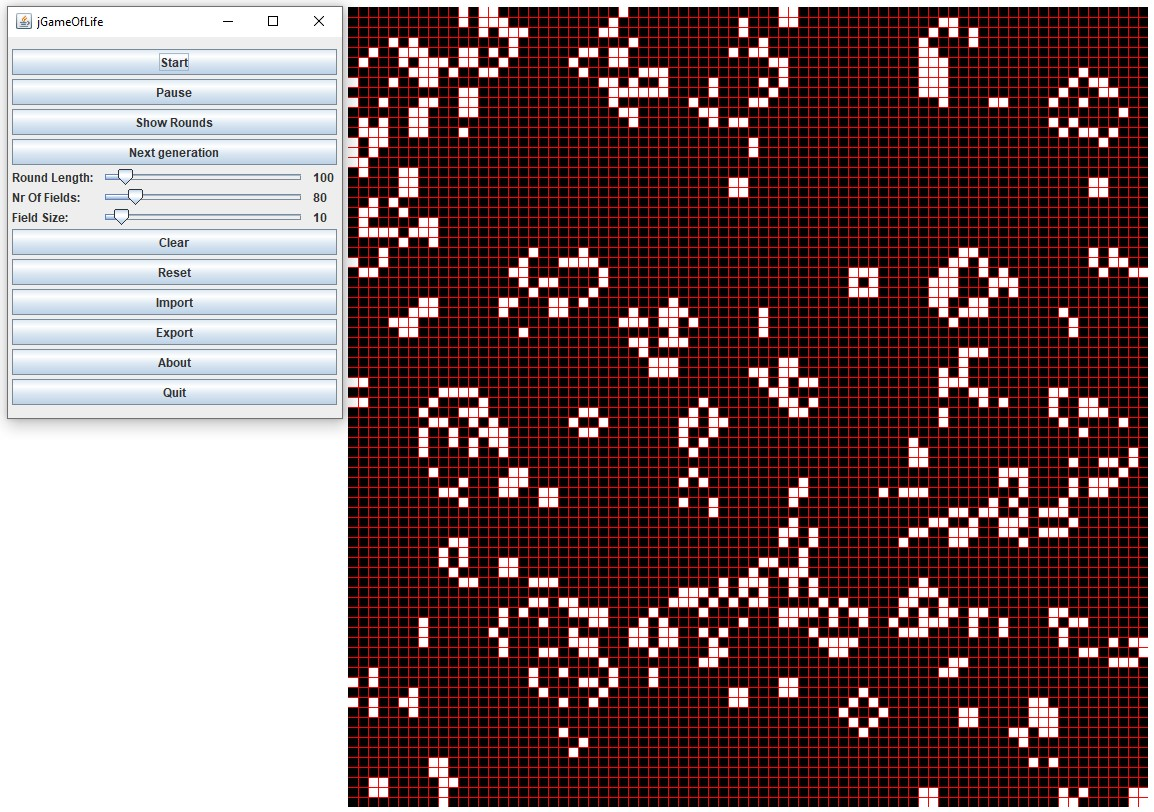
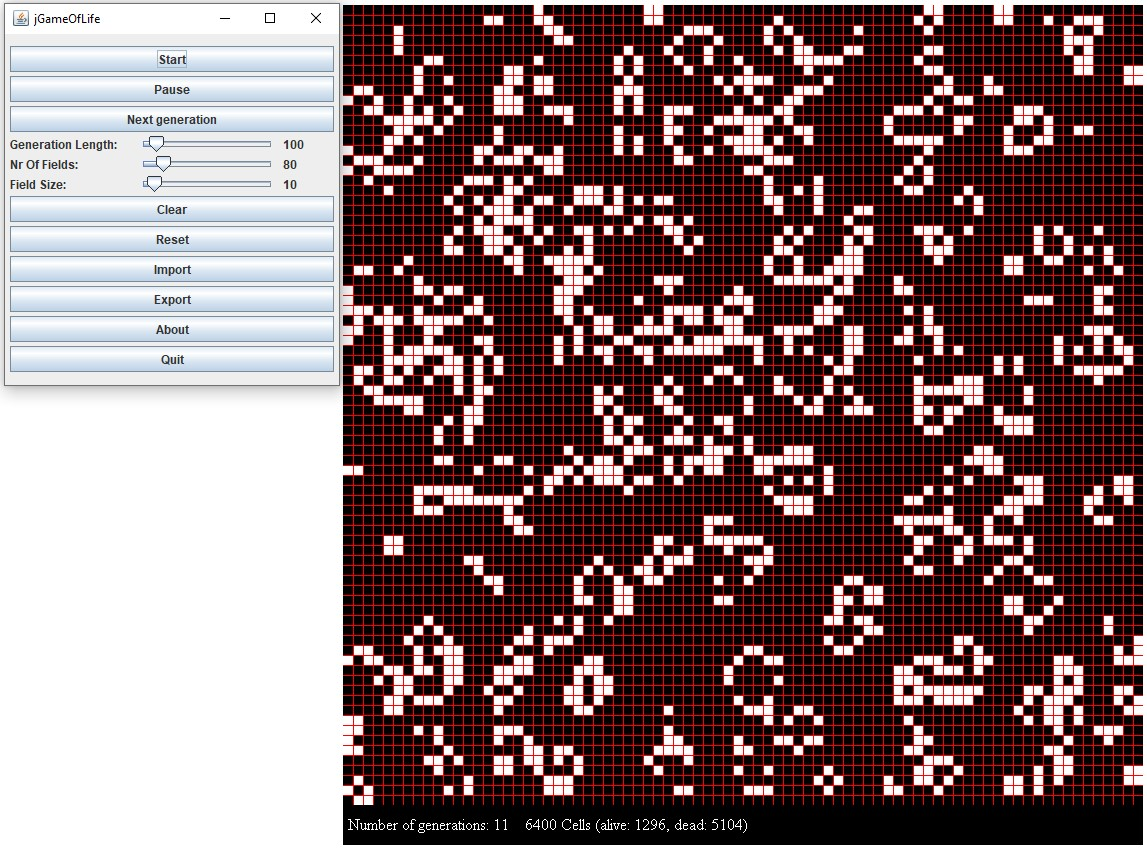
New screenshots; updated UI refresh on import

diff --git a/src/com/calltopower/jgol/jgol/ui/ControlsUI.java b/src/com/calltopower/jgol/jgol/ui/ControlsUI.java
@@ -301,6 +301,8 @@ public class ControlsUI extends JFrame {
                 updateGUIOnFieldDimensionSliderChange = false;
                 fieldSizeSlider.setValue(fileData.getFieldSize());
                 labelFieldSizeVal.setText(String.valueOf(fieldSizeSlider.getValue()));
+                nrOfFieldsSlider.setValue(fileData.getFieldSize());
+                labelNrOfFieldsVal.setText(String.valueOf(fieldSizeSlider.getValue()));
                 fieldUI.setFile(fileData);
                 fieldUI.setVisible(true);
             }

diff --git a/README.md b/README.md
@@ -24,6 +24,8 @@ Conway's Game of Life implementation.
 
 ![Screenshot](img/screenshot.jpg?raw=true)
 
+![Screenshot - xkcd Conway](img/screenshot_xkcd_conway.jpg?raw=true)
+
 ## Build
 
 There are different ant tasks configured:
